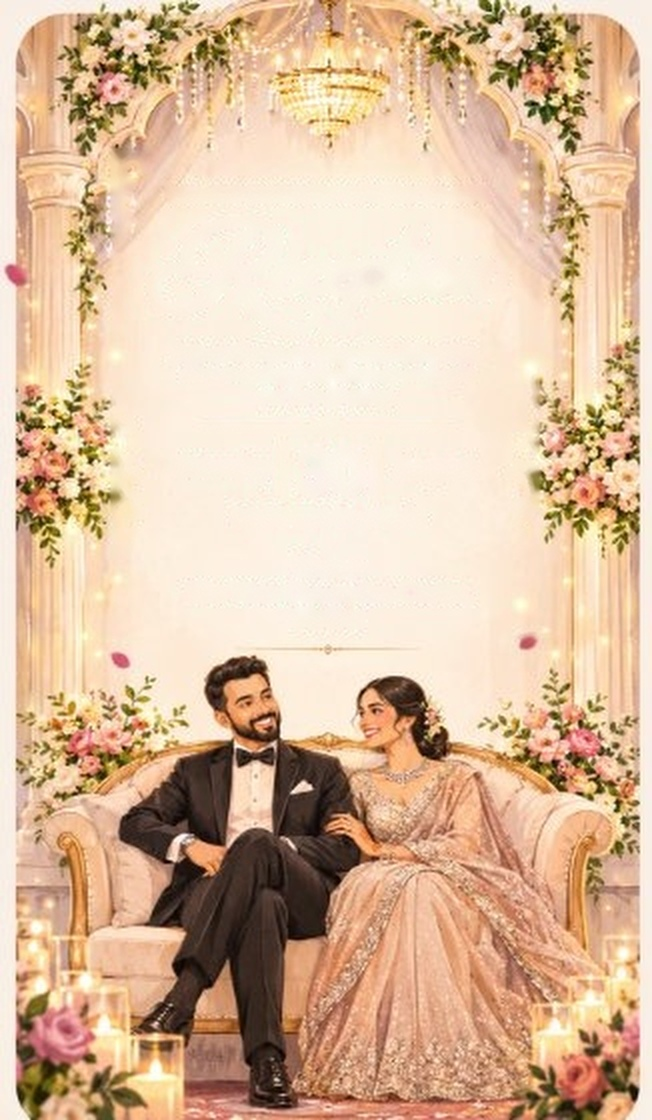
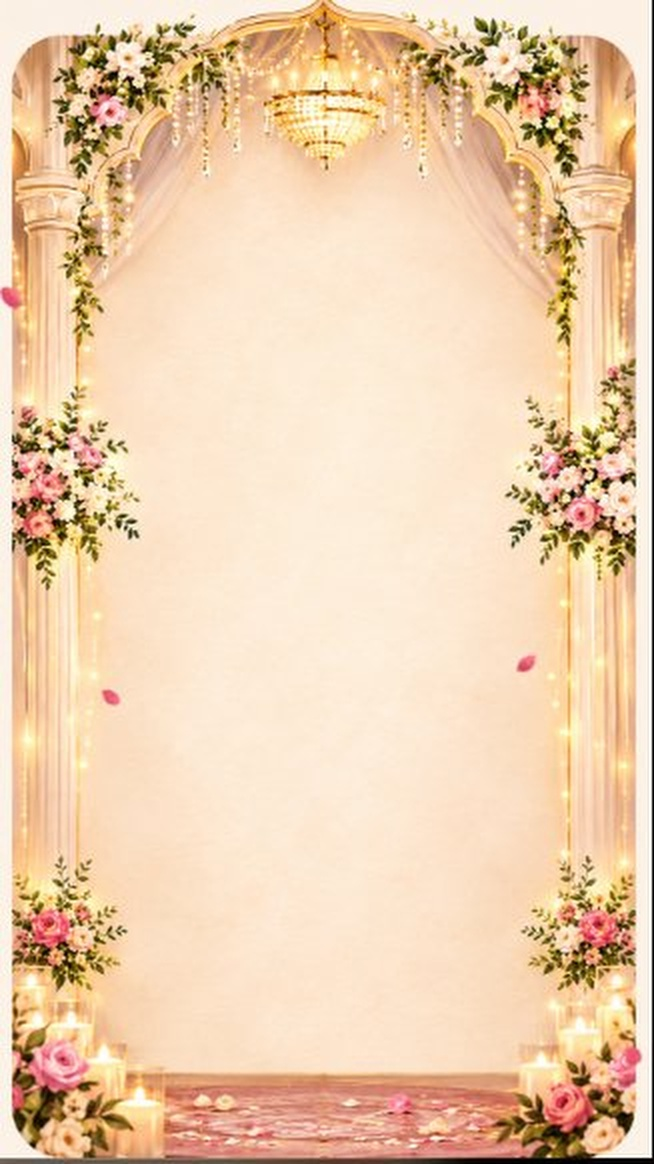
Change reception card theme to clean floral arch background while retaining wording

diff --git a/src/App.css b/src/App.css
@@ -853,7 +853,7 @@
 .reception-mandap-card {
   width: 100%;
   max-width: 440px;
-  aspect-ratio: 326 / 560;
+  aspect-ratio: 327 / 582;
   background: url('/reception-arch-clean-card.jpg') no-repeat center center;
   background-size: 100% 100%;
   border-radius: 18px;
@@ -864,13 +864,13 @@
   flex-direction: column;
   align-items: center;
   justify-content: flex-start;
-  padding: 14% 16px 0 16px;
+  padding: 18% 16px 0 16px;
   box-sizing: border-box;
 }
 
 @media (max-width: 500px) {
   .reception-mandap-card {
-    padding: 13% 12px 0 12px;
+    padding: 17% 12px 0 12px;
   }
 }
 
